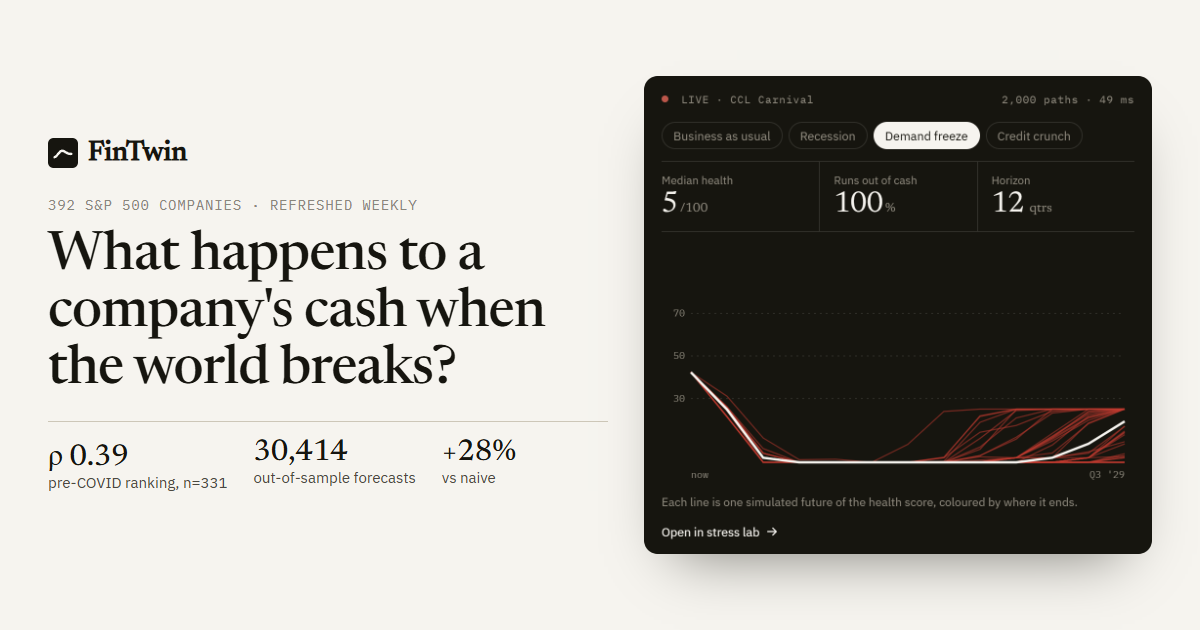
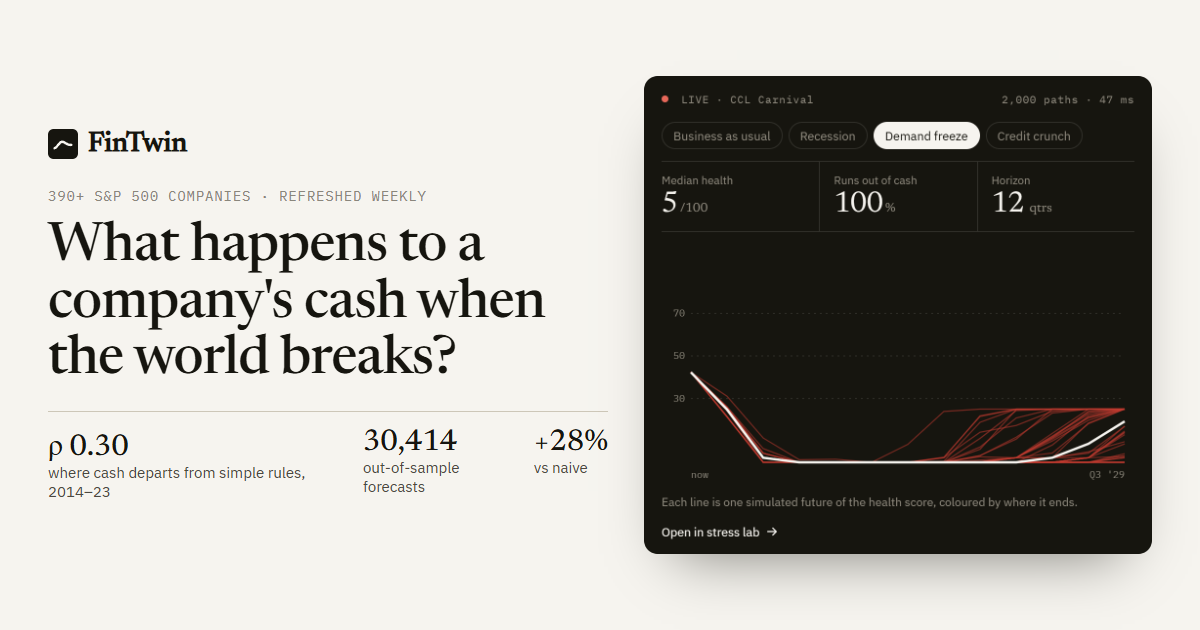
Final consistency pass: 390+ companies, honest headline stats on the share card and overview, precise claims in README, CV kit and Zenodo metadata

diff --git a/web/index.html b/web/index.html
@@ -3,10 +3,10 @@
   <head>
     <meta charset="UTF-8" />
     <meta name="viewport" content="width=device-width, initial-scale=1.0" />
-    <meta name="description" content="FinTwin: a stock-and-flow digital twin of 392 S&P 500 companies, built from SEC filings, refreshed weekly and stress-tested with Monte Carlo simulation in the browser." />
+    <meta name="description" content="FinTwin: a stock-and-flow digital twin of 390+ S&P 500 companies, built from SEC filings, refreshed weekly and stress-tested with Monte Carlo simulation in the browser." />
     <meta property="og:type" content="website" />
     <meta property="og:title" content="FinTwin: what happens to a company's cash when the world breaks?" />
-    <meta property="og:description" content="A stock-and-flow digital twin of 392 S&P 500 companies built from SEC filings. Run 5,000 crisis scenarios live in your browser. Validated on 30,414 point-in-time forecasts." />
+    <meta property="og:description" content="A stock-and-flow digital twin of 390+ S&P 500 companies built from SEC filings. Run 5,000 crisis scenarios live in your browser. Validated on 30,414 point-in-time forecasts." />
     <meta property="og:image" content="https://spiliosdimakopoulos.github.io/fintwin/og.png" />
     <meta property="og:image:width" content="1200" />
     <meta property="og:image:height" content="630" />

diff --git a/web/src/views/OverviewView.tsx b/web/src/views/OverviewView.tsx
@@ -49,7 +49,7 @@ export function OverviewView({ index, onOpen, onGo, onStress }: { index: Index; 
       {cal && xs && (
         <div className="metrics" style={{ ["--n" as string]: 4, marginBottom: 8 }}>
           <Metric label="Pre-COVID fragility ranking" value={xs.spearman} format={(v) => `ρ ${v.toFixed(2)}`}
-            foot={`${xs.n} companies · p < 10⁻⁶`}
+            foot={`${xs.n} companies · mostly persistence, see the paper`}
             info="Spearman rank correlation between each company's twin health score under a demand freeze, computed from filings available on 20 Feb 2020, and its realized worst cumulative free cash flow in 2020–21." />
           <Metric label="Out-of-sample forecasts" value={cal.n_forecasts} format={(v) => Math.round(v).toLocaleString()}
             foot={`${cal.n_companies} companies, cutoffs ${cal.origins[0].slice(0, 4)}–${cal.origins[cal.origins.length - 1].slice(0, 4)}`}

diff --git a/docs/CV_KIT.md b/docs/CV_KIT.md
@@ -7,14 +7,14 @@
 ## CV bullets (pick 2–3)
 
 * Built FinTwin, an open-source digital twin of public companies' finances from SEC XBRL filings. It is a stock-and-flow (system dynamics) model with 9 balance-sheet stocks and 4 feedback loops, stress-tested with calibrated Monte Carlo; live dashboard that rebuilds itself weekly from new filings at zero cost (GitHub Actions, 16 parallel shards), plus a 21-page research paper archived on Zenodo (doi:10.5281/zenodo.23434606).
-* Validated on 30,000+ point-in-time, out-of-sample forecasts across 375 S&P 500 companies (2013–2025). Revenue forecasts beat a seasonal random walk by 28% (CRPS), and online conformal calibration raised 90%-interval coverage from 70% to 91%.
-* Designed an out-of-sample evaluation against 13 benchmarks (Altman, Ohlson, Zmijewski, cash-flow persistence) on COVID-19, 30 2020 bankruptcies and 2,661 firm-years: the twin beats classic distress scores, and given realized revenue it identifies where simple cash-flow rules fail (incremental ρ = 0.30, positive in every year 2014–2023). It also documents what does not work: no balance-sheet model, the twin included, predicted who the 2020 shock would hit.
-* Engineered a point-in-time XBRL pipeline (tag drift, YTD de-cumulation, impairment-adjusted EBIT, filed-date vintages), Sobol global sensitivity, reverse stress testing, and a rule-based analyst that writes evidence-backed credit notes for 392 companies straight from the simulation output.
+* Validated on 30,000+ point-in-time, out-of-sample forecasts across 375 S&P 500 companies (2013–2025). Revenue forecasts beat a seasonal random walk by 27% (scaled CRPS), and online conformal calibration raised 90%-interval coverage from 70% to 91%.
+* Designed an out-of-sample evaluation against 13 benchmarks (Altman, Ohlson, Zmijewski, cash-flow persistence) on COVID-19, 2020 bankruptcies and 2,661 firm-years: the twin beats classic distress scores on 2020 cash burn and on bankruptcies against size-matched survivors (AUC 0.95 vs 0.88 for Altman), and given realized revenue it identifies where simple cash-flow rules fail (incremental ρ = 0.30, positive in every year 2014–2023). It also documents what does not work: neither the twin nor the classic distress scores predicted who the 2020 shock would hit.
+* Engineered a point-in-time XBRL pipeline (tag drift, YTD de-cumulation, impairment-adjusted EBIT, filed-date vintages), Sobol global sensitivity, reverse stress testing, and a rule-based analyst that writes evidence-backed credit notes for 390+ companies straight from the simulation output.
 * Shipped a serverless React/TypeScript dashboard running 5,000 simulations in ~150 ms in a Web Worker, parity-tested against the Python engine to 1e-6, with CI and property-based tests.
 
 ## 30-second spoken pitch
 
-"I built a flight simulator for a company's finances. It reads 15 years of a company's official SEC filings and learns how its money behaves: which costs are fixed, how fast customers pay, when its debt comes due. Then it replays the next three years 5,000 times under whatever crisis you pick, like a pandemic, a rate spike or closed bond markets, and shows the probability that the company runs out of cash. Then I tried hard to prove it wrong. Frozen in February 2020, it beat the classic distress scores at ranking who would burn cash, but a simple cash-flow ratio beat it, and nothing on a balance sheet predicted who the pandemic would actually hit. What it does well is the other half of a stress test: given the revenue that actually happened, it knows where cash departs from a simple rule, every year for a decade."
+"I built a flight simulator for a company's finances. It reads 15 years of a company's official SEC filings and learns how its money behaves: which costs are fixed, how fast customers pay, when its debt comes due. Then it replays the next three years 5,000 times under whatever crisis you pick, like a pandemic, a rate spike or closed bond markets, and shows the probability that the company runs out of cash. Then I tried hard to prove it wrong. Frozen in February 2020, it beat the classic distress scores at ranking who would burn cash, but a simple cash-flow ratio beat it, and neither it nor the classic scores predicted who the pandemic would actually hit. What it does well is the other half of a stress test: given the revenue that actually happened, it knows where cash departs from a simple rule, every year for a decade."
 
 ## Interview deep-dive answers
 
@@ -22,7 +22,7 @@
 Forecasting the shock is impossible; what matters is the *response*, and that is driven by structure: operating leverage, maturity walls, feedback between coverage and the cost of debt. A stock-and-flow model makes that structure explicit, keeps the balance sheet consistent and lets you ask counterfactuals. A black box can't answer "what if markets close for a year?"
 
 **"How do you know it's not overfit?"**
-There are four checks:
+There are five checks:
 1. Point-in-time vintages, so the model never sees later data.
 2. Parameters are estimated on each company's own history with robust estimators, with no tuning on outcomes.
 3. An honest backtest. It reports where the twin fails (Boeing, Netflix) and that interval coverage is below nominal.
@@ -41,7 +41,7 @@ Industry-specific modules: fleet lay-up costs for cruise and airlines, program a
 >
 > It reads a company's SEC filings, builds a stock-and-flow model of how cash, debt and margins interact, and runs 5,000 simulated futures under any crisis you choose: a pandemic, +300bp rates, closed debt markets. You get a probability distribution, not a guess.
 >
-> What I learned testing it: frozen before COVID, it beat the Altman, Ohlson and Zmijewski scores at ranking who would burn cash, but a simple cash-flow margin beat it, and nothing on a balance sheet predicted who the shock would hit. Where it shines is transmission: fed the revenue that actually happened, it knows where cash departs from a simple rule, consistently across 2,661 firm-years. Its revenue forecasts beat a random walk and exponential smoothing.
+> What I learned testing it: frozen before COVID, it beat the Altman, Ohlson and Zmijewski scores at ranking who would burn cash, but a simple cash-flow margin beat it, and neither it nor the classic scores predicted who the shock would hit. Where it shines is transmission: fed the revenue that actually happened, it knows where cash departs from a simple rule, consistently across 2,661 firm-years. Its revenue forecasts beat a random walk and exponential smoothing.
 >
 > It all runs in the browser, with a Python reference engine and a TypeScript engine parity-tested to 1e-6.
 >

diff --git a/README.md b/README.md
@@ -15,7 +15,7 @@
 
 ![Stress lab demo](docs/demo.gif)
 
-> **30-second pitch.** A flight simulator for corporate finance. It reads 15 years of a company's official filings and learns how its finances behave: fixed vs variable costs, how fast customers pay, when its debt matures. Then it replays the future 5,000 times under any crisis you pick, live in the browser. Then I tested it the hard way. Frozen in February 2020, it beat the Altman, Ohlson and Zmijewski scores at ranking who would burn cash, but a simple trailing cash-flow margin beat it, and nothing on a balance sheet predicted who the shock would actually hit. What the twin does well is the other half of a stress test: given the revenue that actually happened, it knows where cash departs from a simple margin rule, consistently over ten years. It covers 392 companies and rebuilds itself from the latest filings every week.
+> **30-second pitch.** A flight simulator for corporate finance. It reads 15 years of a company's official filings and learns how its finances behave: fixed vs variable costs, how fast customers pay, when its debt matures. Then it replays the future 5,000 times under any crisis you pick, live in the browser. Then I tested it the hard way. Frozen in February 2020, it beat the Altman, Ohlson and Zmijewski scores at ranking who would burn cash, but a simple trailing cash-flow margin beat it, and neither it nor the classic scores predicted who the shock would actually hit. What the twin does well is the other half of a stress test: given the revenue that actually happened, it knows where cash departs from a simple margin rule, consistently over ten years. It covers 390+ companies and rebuilds itself from the latest filings every week.
 
 ## Results
 
@@ -26,7 +26,7 @@ All numbers below come from out-of-sample, point-in-time tests: the model sees o
 | Test | Result |
 |---|---|
 | **Transmission (structural test)**: realized revenue fed into each twin, 2,661 firm-years 2014–2023 | The twin knows where a margin pass-through rule misjudges cash flow: incremental **ρ = 0.30** (95% CI 0.25–0.36), positive in **every year**. In 2020, for companies whose revenue fell >10%, operating cash flow tracked with **ρ = 0.72 vs 0.27** for the rule (across all revenue declines in 2014–2023 the two are level, and the rule has smaller errors in levels). |
-| **Ranking before COVID**: 333 S&P 500 non-financials frozen on 20 Feb 2020 | Twin ρ = 0.40 with 2020–21 cash burn, above Altman Z″ (0.31), Ohlson, Zmijewski and every leverage/coverage ratio. **But** the trailing FCF margin reaches 0.68, and against each company's own run-rate (the shock-induced part) no predictor, the twin included, ranks 2020. |
+| **Ranking before COVID**: 333 S&P 500 non-financials frozen on 20 Feb 2020 | Twin ρ = 0.40 with 2020–21 cash burn, above Altman Z″ (0.31), Ohlson, Zmijewski and every leverage/coverage ratio. **But** the trailing FCF margin reaches 0.68, and against each company's own run-rate (the shock-induced part) neither the twin nor the classic scores rank 2020; only revenue volatility and capital intensity carry weak signal. |
 | **2020 bankruptcies**: 27 Chapter 11 filers vs size-matched survivors | AUC 0.95 vs 0.88 for Altman Z″ (p = 0.02). The twin's scoring formula on the opening balance sheet does as well (0.96): the signal is in the score, not the simulation. |
 | **Revenue forecasts**: 15,112 forecast–horizon pairs, 374 companies | Scaled CRPS **27% better** than a seasonal random walk and **18% better** than ETS; Diebold–Mariano tests significant with firm × origin clustering. |
 | **Calibration**: online conformal rescaling, learned only from past cutoffs | 90%-interval coverage raised from 70% (raw) to **91%** (revenue) and from 36% to **91%** (cash). |
